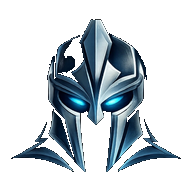
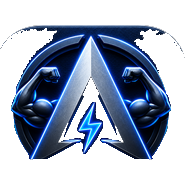
auto-commit for a93a08f7-b35a-4504-987e-2c5395bfe331

diff --git a/frontend/src/pages/Coach.jsx b/frontend/src/pages/Coach.jsx
@@ -72,7 +72,7 @@ export default function Coach() {
               <div className="relative inline-block mb-4">
                 <div className="absolute inset-0 rounded-full blur-2xl opacity-60" style={{ background: "radial-gradient(circle, rgba(0,191,255,0.5), transparent 70%)" }} />
                 <img
-                  src="/alphafit-helmet.png?v=2"
+                  src="/alphafit-helmet.png?v=4"
                   alt="Alpha Coach"
                   className="relative w-20 h-20 mx-auto"
                   style={{ filter: "drop-shadow(0 0 14px rgba(0,191,255,0.7))" }}
@@ -166,7 +166,7 @@ function ChatMessage({ role, text, index }) {
       <div className="relative w-8 h-8 flex-shrink-0">
         <div className="absolute inset-0 rounded-full" style={{ background: "radial-gradient(circle, rgba(0,191,255,0.5), transparent 70%)", filter: "blur(6px)" }} />
         <img
-          src="/alphafit-helmet.png?v=2"
+          src="/alphafit-helmet.png?v=4"
           alt="Alpha Coach"
           className="relative w-8 h-8 object-contain"
           style={{ filter: "drop-shadow(0 0 6px rgba(0,191,255,0.6))" }}
@@ -185,7 +185,7 @@ function TypingBubble() {
       <div className="relative w-8 h-8 flex-shrink-0">
         <div className="absolute inset-0 rounded-full" style={{ background: "radial-gradient(circle, rgba(0,191,255,0.5), transparent 70%)", filter: "blur(6px)" }} />
         <img
-          src="/alphafit-helmet.png?v=2"
+          src="/alphafit-helmet.png?v=4"
           alt="Alpha Coach"
           className="relative w-8 h-8 object-contain"
           style={{ filter: "drop-shadow(0 0 6px rgba(0,191,255,0.6))" }}

diff --git a/frontend/src/components/Logo.jsx b/frontend/src/components/Logo.jsx
@@ -3,9 +3,14 @@ export default function Logo({ size = 40, withText = true, square = false }) {
   if (square) {
     return (
       <img
-        src="/alphafit-logo.png?v=2"
+        src="/alphafit-logo.png?v=4"
         alt="alpha-fit"
-        style={{ width: size, height: size, objectFit: "contain" }}
+        style={{
+          width: size,
+          height: size,
+          objectFit: "contain",
+          filter: "drop-shadow(0 0 12px rgba(0,191,255,0.6))",
+        }}
         data-testid="alphafit-logo"
       />
     );
@@ -13,13 +18,13 @@ export default function Logo({ size = 40, withText = true, square = false }) {
   return (
     <div className="flex items-center gap-2" data-testid="alphafit-logo">
       <img
-        src="/alphafit-helmet.png?v=2"
+        src="/alphafit-helmet.png?v=4"
         alt="alpha-fit"
         style={{
           width: size,
           height: size,
           objectFit: "contain",
-          filter: "drop-shadow(0 0 10px rgba(0,191,255,0.55))",
+          filter: "drop-shadow(0 0 12px rgba(0,191,255,0.65))",
         }}
       />
       {withText && (

diff --git a/frontend/src/components/Layout.jsx b/frontend/src/components/Layout.jsx
@@ -29,7 +29,7 @@ export default function Layout({ children }) {
       <header className="sticky top-0 z-40 backdrop-blur-xl bg-black/70 border-b border-[#1A1A24]">
         <div className="max-w-7xl mx-auto px-3 sm:px-6 md:px-8 h-14 sm:h-16 flex items-center justify-between gap-2">
           <button onClick={() => navigate("/dashboard")} className="flex items-center min-w-0" data-testid="header-logo-btn">
-            <Logo size={32} />
+            <Logo size={40} />
           </button>
           <div className="flex items-center gap-2 sm:gap-3 flex-shrink-0">
             {user?.is_premium && (

diff --git a/frontend/src/pages/Landing.jsx b/frontend/src/pages/Landing.jsx
@@ -71,7 +71,7 @@ export default function Landing() {
               background: "radial-gradient(circle, rgba(0,191,255,0.4) 0%, transparent 70%)",
             }} />
             <img
-              src="/alphafit-logo.png?v=2"
+              src="/alphafit-logo.png?v=4"
               alt="alpha-fit"
               className="relative z-10 w-full h-full object-contain"
               style={{ filter: "drop-shadow(0 0 40px rgba(0,191,255,0.6))" }}

diff --git a/frontend/src/components/SplashScreen.jsx b/frontend/src/components/SplashScreen.jsx
@@ -40,7 +40,7 @@ export default function SplashScreen() {
         <div className="splash-helmet-wrap">
           <div className="splash-helmet-glow" />
           <img
-            src="/alphafit-helmet.png?v=2"
+            src="/alphafit-helmet.png?v=4"
             alt="alpha-fit"
             className="splash-helmet"
             data-testid="splash-helmet"

diff --git a/memory/PRD.md b/memory/PRD.md
@@ -291,3 +291,17 @@ Erstelle mir eine ultimative Fitness App namens alpha-fit (Logo: metallisches Ch
 - `CollapsibleSection` unterstützt optional `storageKey` → `af_cs_{key}` in localStorage.
 - Dashboard-Sektionen mit Keys: `coach`, `daily`, `stats`.
 - **Verified** via Playwright: Coach+Stats öffnen → localStorage `1,1,None` → Reload → Zustand bleibt.
+
+## Logo-Refresh (2026-02-16, Iter 20) — Neues finales Logo ✅
+- **User Asset**: Neues Logo mit metallischem A + Bizeps-Armen + Blitz-Motiv (2 MB PNG, `job_fitness-ai-premium/…yx3zdgx8_file_…088c7246b7bec2caf3b0d779.png`).
+- **Prozess** (`/tmp/logo_work/process_logo.py`):
+  1. Corner-Flood-Fill (tol=55) entfernt den rounded-square Card-Rahmen → Emblem sitzt auf Transparenz.
+  2. Alpha-Threshold-Cleanup (α >= 180 oder neon-blue mask) entfernt Stray-Pixel.
+  3. Zwei Varianten generiert: `logo` (mit ALPHAFIT-Text) + `helmet` (Emblem only).
+- **Dateien in `/app/frontend/public/`** aktualisiert:
+  - `alphafit-logo.png` (512, mit Text) + `-192.png` + `-512.png`
+  - `alphafit-helmet.png` (Emblem-only) + `-256.png` + `-192.png`
+  - `manifest.json`: PWA-Icons zeigen jetzt auf korrekt-gesizte Files.
+- **Frontend**: `?v=4` Cache-Bust überall. Header-Logo-Größe 32 → 40 px. Stärkerer `drop-shadow` Glow (12px `#00BFFF`).
+- **Verified via Screenshot**: Dashboard-Header + Landing-Hero + Auth-Page zeigen neues Logo mit blauem Neon-Glow.
+
